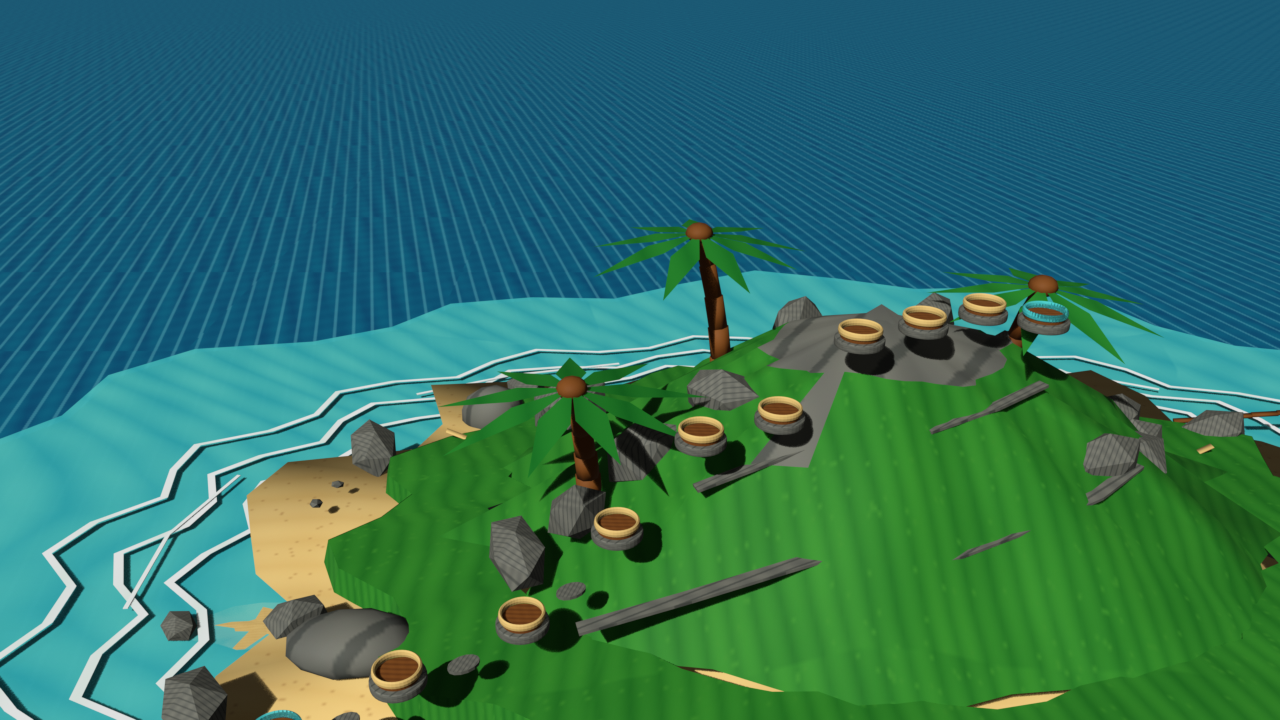
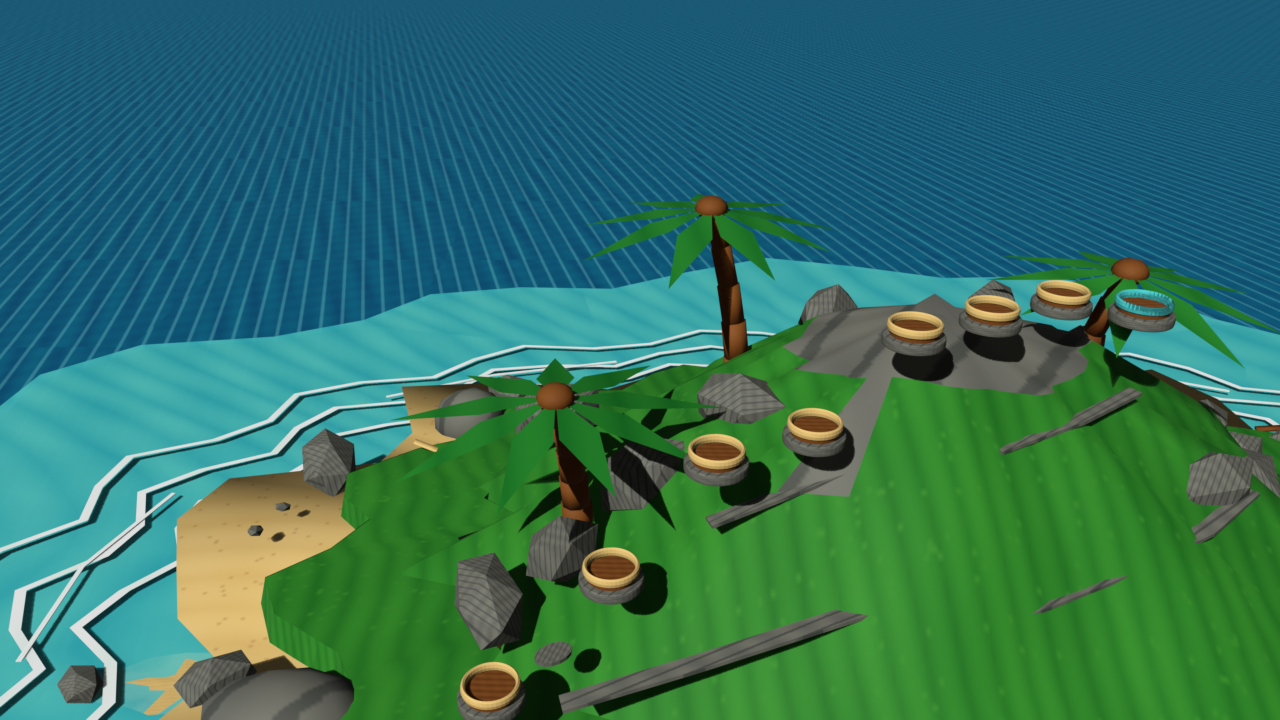
s

diff --git a/RedFortress2/MultiPassRendering/StageManager.cpp b/RedFortress2/MultiPassRendering/StageManager.cpp
@@ -59,8 +59,8 @@ void StageManager::Initialize()
 
     AddStage(L"base", 33, L"拠点", L"base", D3DXVECTOR3(0.0f, 0.2f, -28.0f), D3DXVECTOR3(0.0f, 1.0f, 28.0f));
 
-    const D3DXVECTOR3 kSelect1CameraPos(-7.0f, 18.0f, -28.0f);
-    const D3DXVECTOR3 kSelect1CameraLookAt(-7.0f, 3.5f, 4.0f);
+    const D3DXVECTOR3 kSelect1CameraPos(-7.0f, 16.0f, -23.0f);
+    const D3DXVECTOR3 kSelect1CameraLookAt(-7.0f, 3.5f, -4.0f);
     const D3DXVECTOR3 kSelect2CameraPos(0.0f, 15.0f, -32.0f);
     const D3DXVECTOR3 kSelect2CameraLookAt(0.0f, 0.8f, 5.5f);
     const D3DXVECTOR3 kSelect3CameraPos(0.0f, 23.0f, -38.0f);

diff --git a/_raise_stage_select1_portals.py b/_raise_stage_select1_portals.py
@@ -31,8 +31,8 @@ for material in bpy.data.materials:
 
 preview_camera = bpy.context.scene.camera
 if preview_camera is not None:
-    preview_camera.location = Vector((-7.0, -28.0, 18.0))
-    preview_target = Vector((-7.0, 4.0, 3.5))
+    preview_camera.location = Vector((-7.0, -23.0, 16.0))
+    preview_target = Vector((-7.0, -4.0, 3.5))
     preview_camera.rotation_euler = (preview_target - preview_camera.location).to_track_quat("-Z", "Y").to_euler()
     preview_camera.data.lens = 28.0
 

diff --git a/RedFortress2/MultiPassRendering/GameApp.cpp b/RedFortress2/MultiPassRendering/GameApp.cpp
@@ -148,7 +148,7 @@ namespace
     const std::wstring kStageSelectCubeGreenPath = L"res\\model\\cubeGreen\\cube_green.x";
     const std::wstring kStageSelectCubeBluePath = L"res\\model\\cubeBlue\\cube_blue.x";
     const float kStageSelectCubeScale = 0.16666667f;
-    const float kStageSelectCubeVisualOffsetY = 0.5f;
+    const float kStageSelectCubeVisualOffsetY = 1.0f;
     const std::wstring kAttackClubIconPath = L"res\\2D_Image\\attack_club_icon.png";
     const std::wstring kAttackSlashIconPath = L"res\\2D_Image\\attack_slash_icon.png";
     const std::wstring kAttackBombIconPath = L"res\\2D_Image\\attack_bomb_icon.png";